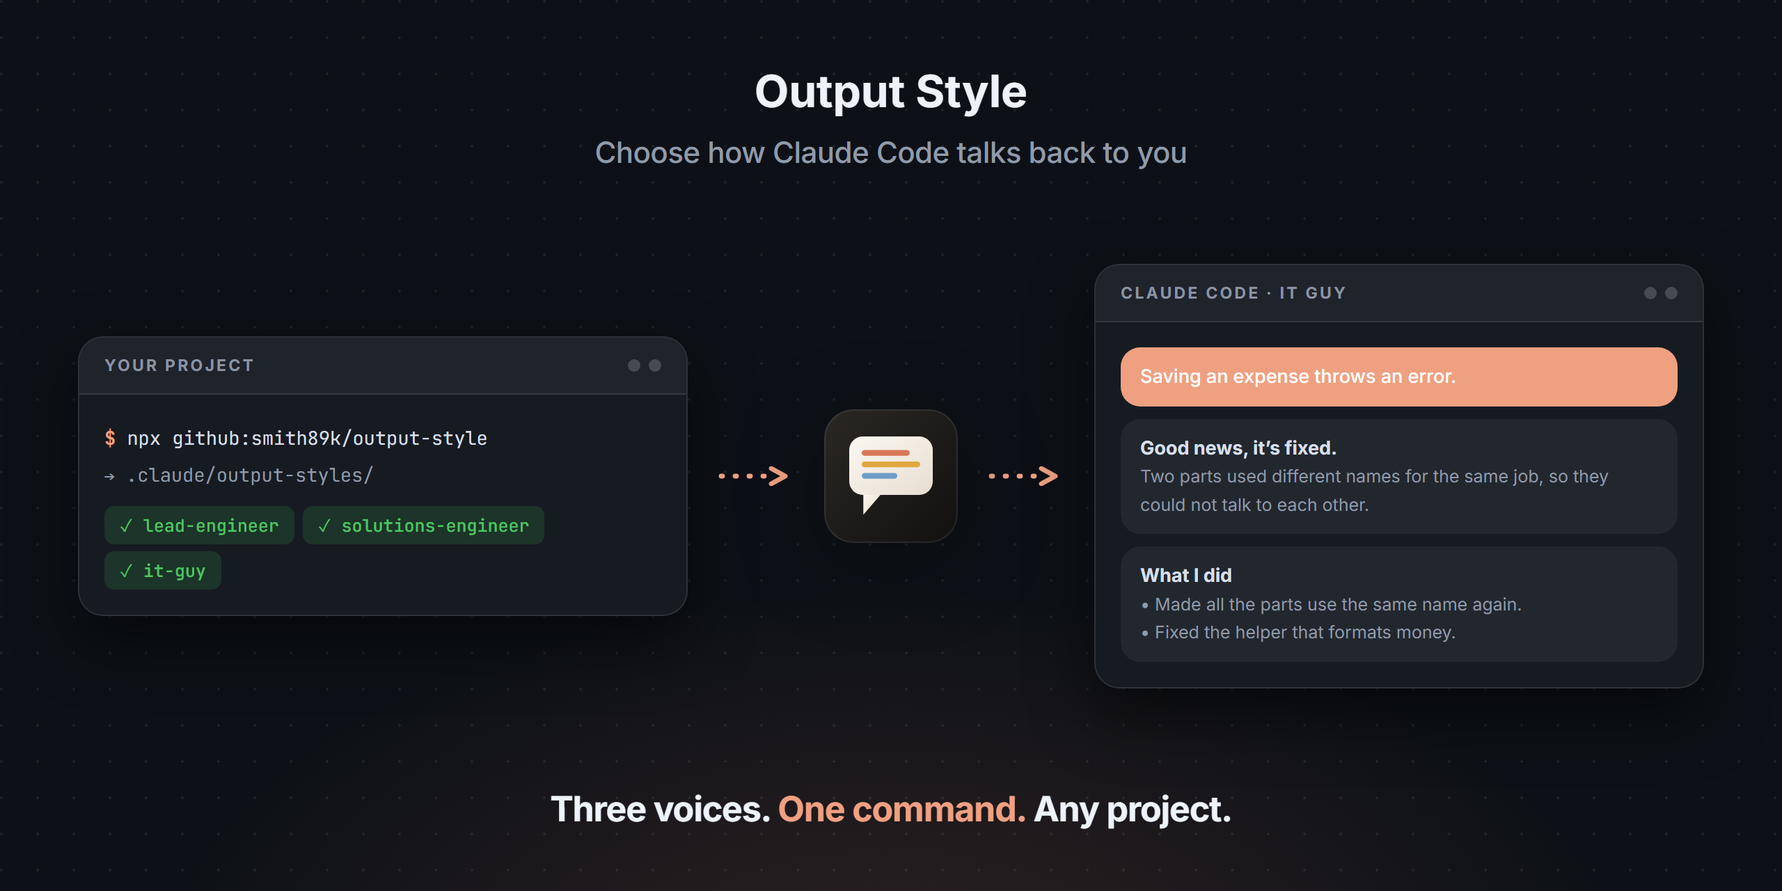
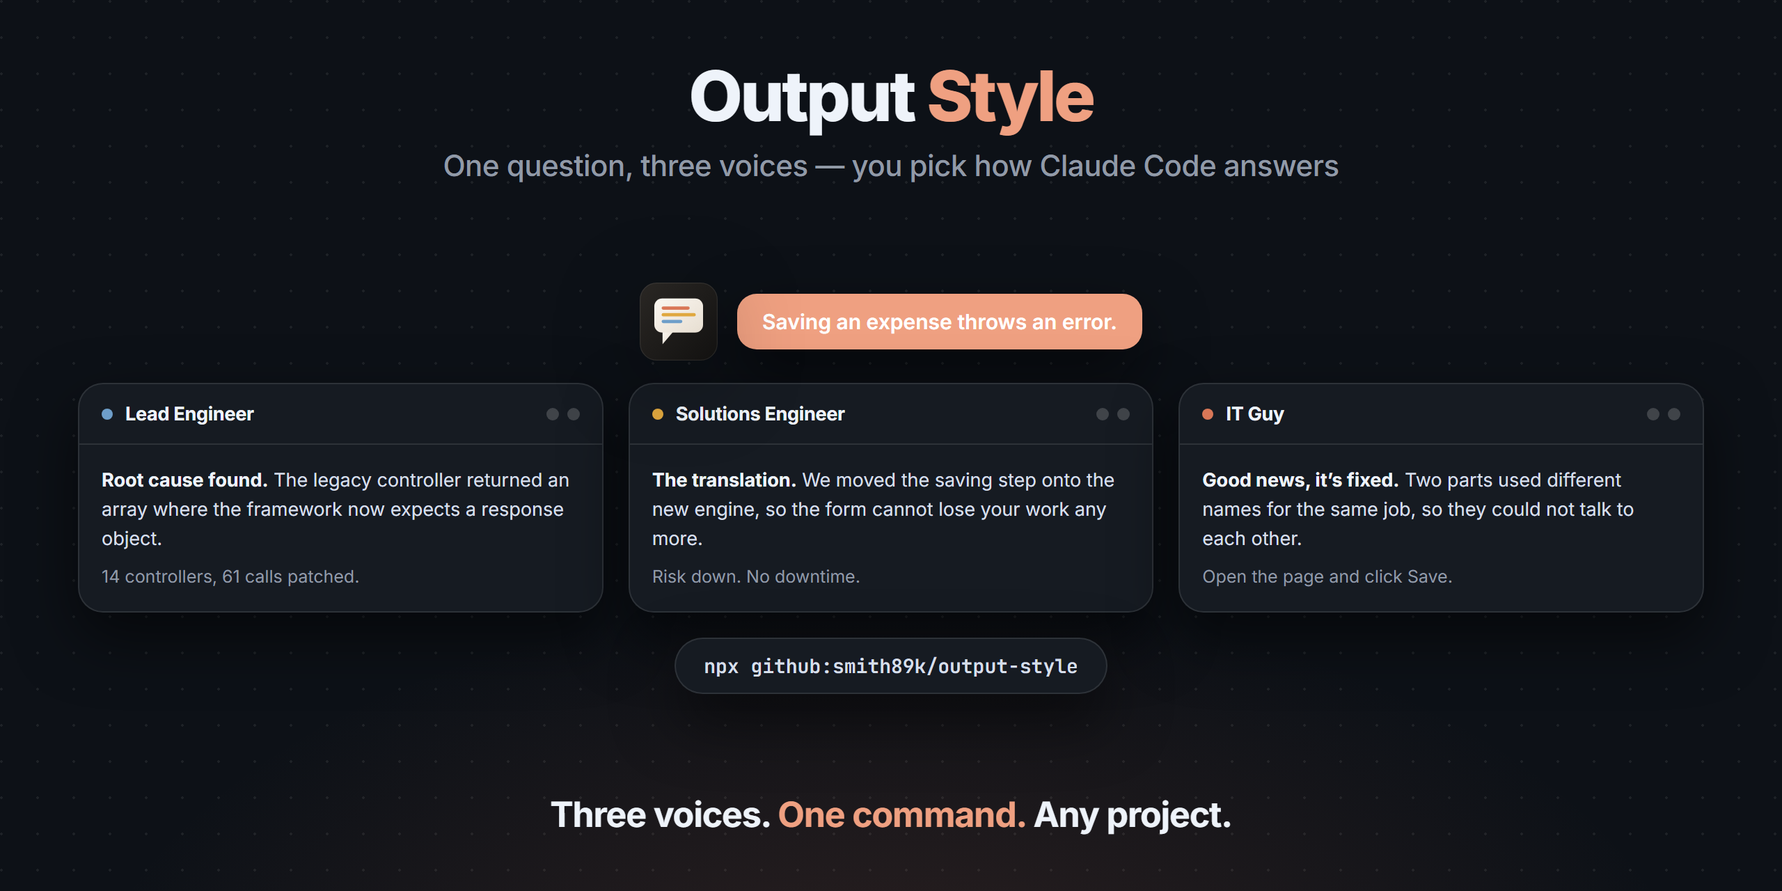
Add brand assets and a new README header
Adds art/ with a logo (SVG), a favicon, a light and dark README banner
drawn for what this project does (with the HTML source next to it) and a
1280x640 social preview. The README now opens with a centred logo,
title, one-line pitch and badges, followed by a theme-aware <picture>.

Claude-Session: https://claude.ai/code/session_01N9WhB6hMATjfZZY1zVEDWa

diff --git a/art/banner-dark.html b/art/banner-dark.html
@@ -1,84 +1,65 @@
 <!doctype html><html><head><meta charset="utf-8">
 <link rel="preconnect" href="https://fonts.googleapis.com">
 <link rel="preconnect" href="https://fonts.gstatic.com" crossorigin>
-<link href="https://fonts.googleapis.com/css2?family=Inter:wght@400;500;600;700;800&family=JetBrains+Mono:wght@400;500;600&display=swap" rel="stylesheet">
+<link href="https://fonts.googleapis.com/css2?family=Inter:wght@400;500;600;700;800;900&family=JetBrains+Mono:wght@400;500;600;700&display=swap" rel="stylesheet">
 <style>
 *{margin:0;padding:0;box-sizing:border-box}
 html,body{width:1280px;height:640px;overflow:hidden}
-body{
-  font-family:'Inter','Segoe UI',system-ui,sans-serif;
+body{font-family:'Inter','Segoe UI',system-ui,sans-serif;color:#EEF3FA;
   background:
-    radial-gradient(760px 420px at 50% 112%,rgba(217,119,87,.16),transparent 70%),
+    radial-gradient(820px 460px at 50% 118%,rgba(217,119,87,.16),transparent 72%),
     radial-gradient(circle at 1px 1px,rgba(255,255,255,.07) 1px,transparent 0) 0 0/26px 26px,
-    #0D1117;
-  color:#EEF3FA;
-  display:flex;flex-direction:column;align-items:center;
-  padding:46px 56px 44px;
-}}
+    #0D1117;}
+.page{width:100%;height:100%;padding:44px 56px 40px;display:flex;flex-direction:column}
+
 h1{font-size:50px;font-weight:800;letter-spacing:-.035em;line-height:1}
+h1 .a{color:#EFA081}
 .sub{margin-top:12px;font-size:21px;font-weight:450;color:#919AA7;letter-spacing:-.012em}
-.stage{flex:1;display:flex;align-items:center;justify-content:center;gap:22px;width:100%;margin:4px 0 2px}
-
-.card{flex:1;min-width:0;background:#161B22;border:1px solid rgba(255,255,255,.10);border-radius:18px;
-  box-shadow:0 18px 44px rgba(0,0,0,.55);overflow:hidden}
-.bar{display:flex;align-items:center;gap:10px;padding:13px 18px;background:rgba(255,255,255,.04);
-  border-bottom:1px solid rgba(255,255,255,.10)}
-.bar .t{font-size:11.5px;font-weight:700;letter-spacing:.14em;color:#8B94A3;text-transform:uppercase}
-.dots{display:flex;gap:6px;margin-left:auto}
-.dots i{width:9px;height:9px;border-radius:50%;background:rgba(255,255,255,.18);display:block}
-.url{flex:1;background:rgba(255,255,255,.05);border:1px solid rgba(255,255,255,.10);border-radius:999px;
-  padding:6px 14px;font-size:12.5px;color:#8B94A3;font-weight:500}
-.body{padding:18px}
-
-.mono{font-family:'JetBrains Mono',Consolas,monospace;font-size:13.5px;line-height:1.95;
-  color:#D7DFEA;white-space:nowrap}
-.mono .pr{color:#EFA081;font-weight:600}
-.mono .dim{color:#919AA7}
-
-.ok{display:inline-flex;align-items:center;gap:7px;background:rgba(63,185,80,.16);color:#4FC463;
-  font-family:'JetBrains Mono',Consolas,monospace;font-size:12.5px;font-weight:500;
-  padding:5px 11px;border-radius:7px;margin:5px 6px 0 0}
-
-.row{display:flex;align-items:center;gap:10px;padding:9px 2px;font-size:14px;font-weight:500}
-.row + .row{border-top:1px solid rgba(255,255,255,.10)}
-.row .n{font-family:'JetBrains Mono',Consolas,monospace;font-size:13px;color:#D7DFEA}
-.row .s{margin-left:auto;display:inline-flex;align-items:center;gap:6px;font-size:11.5px;
-  font-weight:600;letter-spacing:.04em;text-transform:uppercase;color:#4FC463;
-  background:rgba(63,185,80,.16);padding:4px 10px;border-radius:999px}
-.led{width:7px;height:7px;border-radius:50%;background:#4FC463}
-
-.head{display:flex;align-items:center;gap:10px;margin-bottom:6px}
-.head b{font-size:16px;font-weight:700;letter-spacing:-.01em}
-.head .s{margin-left:auto;display:inline-flex;align-items:center;gap:6px;font-size:11.5px;
-  font-weight:600;letter-spacing:.04em;text-transform:uppercase;color:#4FC463;
-  background:rgba(63,185,80,.16);padding:4px 10px;border-radius:999px}
-.foot{display:flex;gap:7px;margin-top:12px}
-.tagp{font-size:11.5px;font-weight:600;color:#8B94A3;background:rgba(255,255,255,.04);
-  border:1px solid rgba(255,255,255,.10);padding:4px 10px;border-radius:999px}
-
-.bub{background:rgba(255,255,255,.055);border-radius:14px;padding:11px 14px;font-size:13.5px;line-height:1.5;
-  color:#D7DFEA}
-.bub.me{background:#EFA081;color:#fff;font-weight:500}
-.bub + .bub{margin-top:9px}
-.bub b{font-weight:700}
-.bub .li{color:#919AA7;font-size:12.5px}
-
-.mid{display:flex;flex-direction:column;align-items:center;gap:0;flex:0 0 auto}
-.mid img{width:96px;height:96px;display:block;filter:drop-shadow(0 14px 30px rgba(0,0,0,.28))}
-.arrow{flex:0 0 auto;display:flex;align-items:center}
-.arrow svg{display:block}
-
-.tag{margin-top:6px;font-size:25px;font-weight:700;letter-spacing:-.022em}
+.tag{font-size:25px;font-weight:700;letter-spacing:-.022em}
 .tag .a{color:#EFA081}
-</style></head><body>
-<h1>Output Style</h1>
-<div class="sub">Choose how Claude Code talks back to you</div>
-<div class="stage">
-  <div class="card"><div class="bar"><span class="t">Your project</span><span class="dots"><i></i><i></i></span></div><div class="body"><div class="mono"><span class="pr">$</span> npx github:smith89k/output-style</div><div class="mono"><span class="dim">&#8594; .claude/output-styles/</span></div><div style="margin-top:4px"><span class="ok">&#10003; lead-engineer</span><span class="ok">&#10003; solutions-engineer</span><span class="ok">&#10003; it-guy</span></div></div></div>
-  <div class="arrow"><svg width="54" height="14" viewBox="0 0 54 14"><path d="M2 7 H40" stroke="#EFA081" stroke-width="3.4" stroke-linecap="round" stroke-dasharray="1 9"/><path d="M38 1.5 L48 7 L38 12.5" fill="none" stroke="#EFA081" stroke-width="3.4" stroke-linecap="round" stroke-linejoin="round"/></svg></div>
-  <div class="mid"><img src="logo.svg"></div>
-  <div class="arrow"><svg width="54" height="14" viewBox="0 0 54 14"><path d="M2 7 H40" stroke="#EFA081" stroke-width="3.4" stroke-linecap="round" stroke-dasharray="1 9"/><path d="M38 1.5 L48 7 L38 12.5" fill="none" stroke="#EFA081" stroke-width="3.4" stroke-linecap="round" stroke-linejoin="round"/></svg></div>
-  <div class="card"><div class="bar"><span class="t">Claude Code &middot; IT Guy</span><span class="dots"><i></i><i></i></span></div><div class="body"><div class="bub me">Saving an expense throws an error.</div><div class="bub "><b>Good news, it&rsquo;s fixed.</b><br><span class="li">Two parts used different names for the same job, so they could not talk to each other.</span></div><div class="bub "><b>What I did</b><br><span class="li">&bull; Made all the parts use the same name again.<br>&bull; Fixed the helper that formats money.</span></div></div></div>
-</div>
-<div class="tag">Three voices. <span class="a">One command.</span> Any project.</div>
-</body></html>
+.mid{flex:1;display:flex;align-items:center;justify-content:center;gap:24px;min-height:0}
+
+.win{background:#161B22;border:1px solid rgba(255,255,255,.10);border-radius:18px;
+  box-shadow:0 18px 44px rgba(0,0,0,.55);overflow:hidden;display:flex;flex-direction:column}
+.bar{display:flex;align-items:center;gap:10px;padding:12px 18px;background:rgba(255,255,255,.04);
+  border-bottom:1px solid rgba(255,255,255,.10);flex:0 0 auto}
+.bar .t{font-size:11.5px;font-weight:700;letter-spacing:.14em;color:#8B94A3;text-transform:uppercase}
+.dots{display:flex;gap:6px}
+.dots i{width:9px;height:9px;border-radius:50%;background:rgba(255,255,255,.18);display:block}
+.pill{background:rgba(255,255,255,.05);border:1px solid rgba(255,255,255,.10);border-radius:999px;padding:6px 14px;
+  font-size:12.5px;color:#8B94A3;font-weight:500}
+.pad{padding:18px;flex:1;display:flex;flex-direction:column;justify-content:center;min-height:0}
+
+.mono{font-family:'JetBrains Mono',Consolas,monospace;color:#D7DFEA}
+.chip{display:inline-flex;align-items:center;gap:7px;font-size:11.5px;font-weight:600;
+  color:#8B94A3;background:rgba(255,255,255,.04);border:1px solid rgba(255,255,255,.10);padding:5px 11px;
+  border-radius:999px;white-space:nowrap}
+.chip.on{color:#fff;background:#EFA081;border-color:transparent}
+.ok{display:inline-flex;align-items:center;gap:7px;background:rgba(63,185,80,.16);color:#4FC463;
+  font-size:12.5px;font-weight:600;padding:5px 11px;border-radius:8px}
+.warn{background:rgba(240,160,60,.16);color:#F0A83C}
+.dot{width:8px;height:8px;border-radius:50%;display:inline-block;background:currentColor}
+.muted{color:#919AA7}
+.accent{color:#EFA081}
+.row{display:flex;align-items:center;gap:11px}
+.grow{flex:1}
+.logo{filter:drop-shadow(0 14px 30px rgba(0,0,0,.30))}
+
+.voices{display:flex;gap:18px;width:100%;align-items:stretch}
+.qrow{display:flex;align-items:center;gap:14px;margin-bottom:16px}
+.qbub{font-size:15px;font-weight:600;color:#fff;background:#EFA081;
+  border-radius:14px;padding:11px 18px;box-shadow:0 18px 44px rgba(0,0,0,.55)}
+.voice{flex:1;min-width:0}
+.vh{display:flex;align-items:center;gap:9px;padding:13px 16px;border-bottom:1px solid rgba(255,255,255,.10)}
+.vh b{font-size:13.5px;font-weight:700;letter-spacing:-.01em}
+.vb{padding:15px 16px;font-size:13.5px;line-height:1.55;color:#D7DFEA;flex:1}
+.vb b{font-weight:700;color:#EEF3FA}
+.vb .q{color:#919AA7;font-size:12.5px;display:block;margin-top:7px}
+.cmdbar{display:flex;justify-content:center;margin-top:18px}
+.cmdbar span{font-family:'JetBrains Mono',Consolas,monospace;font-size:14px;font-weight:600;
+  color:#D7DFEA;background:#161B22;border:1px solid rgba(255,255,255,.10);border-radius:999px;
+  padding:10px 20px;box-shadow:0 18px 44px rgba(0,0,0,.55)}
+
+</style></head><body><div class="page">
+<div style="display:flex;flex-direction:column;text-align:center;align-items:center;flex:0 0 auto"><h1>Output <span class="a">Style</span></h1><div class="sub">One question, three voices &mdash; you pick how Claude Code answers</div></div><div class="mid" style="flex-direction:column;gap:0"><div class="qrow"><img class="logo" src="logo.svg" width="56" height="56" style="flex:0 0 auto;"><span class="qbub">Saving an expense throws an error.</span></div><div class="voices"><div class="win voice"><div class="vh"><span class="dot" style="color:#6E9EC9"></span><b>Lead Engineer</b><span class="grow"></span><span class="dots"><i></i><i></i></span></div><div class="vb"><b>Root cause found.</b> The legacy controller returned an array where the framework now expects a response object.<span class="q">14 controllers, 61 calls patched.</span></div></div><div class="win voice"><div class="vh"><span class="dot" style="color:#E0A83F"></span><b>Solutions Engineer</b><span class="grow"></span><span class="dots"><i></i><i></i></span></div><div class="vb"><b>The translation.</b> We moved the saving step onto the new engine, so the form cannot lose your work any more.<span class="q">Risk down. No downtime.</span></div></div><div class="win voice"><div class="vh"><span class="dot" style="color:#D97757"></span><b>IT Guy</b><span class="grow"></span><span class="dots"><i></i><i></i></span></div><div class="vb"><b>Good news, it&rsquo;s fixed.</b> Two parts used different names for the same job, so they could not talk to each other.<span class="q">Open the page and click Save.</span></div></div></div><div class="cmdbar"><span>npx github:smith89k/output-style</span></div></div><div class="tag" style="text-align:center;margin-top:0px;flex:0 0 auto">Three voices. <span class="a">One command.</span> Any project.</div>
+</div></body></html>

diff --git a/art/banner-light.html b/art/banner-light.html
@@ -1,84 +1,65 @@
 <!doctype html><html><head><meta charset="utf-8">
 <link rel="preconnect" href="https://fonts.googleapis.com">
 <link rel="preconnect" href="https://fonts.gstatic.com" crossorigin>
-<link href="https://fonts.googleapis.com/css2?family=Inter:wght@400;500;600;700;800&family=JetBrains+Mono:wght@400;500;600&display=swap" rel="stylesheet">
+<link href="https://fonts.googleapis.com/css2?family=Inter:wght@400;500;600;700;800;900&family=JetBrains+Mono:wght@400;500;600;700&display=swap" rel="stylesheet">
 <style>
 *{margin:0;padding:0;box-sizing:border-box}
 html,body{width:1280px;height:640px;overflow:hidden}
-body{
-  font-family:'Inter','Segoe UI',system-ui,sans-serif;
+body{font-family:'Inter','Segoe UI',system-ui,sans-serif;color:#14171C;
   background:
-    radial-gradient(760px 420px at 50% 112%,rgba(200,95,56,.10),transparent 70%),
+    radial-gradient(820px 460px at 50% 118%,rgba(200,95,56,.10),transparent 72%),
     radial-gradient(circle at 1px 1px,rgba(0,0,0,.07) 1px,transparent 0) 0 0/26px 26px,
-    #EFEEE9;
-  color:#14171C;
-  display:flex;flex-direction:column;align-items:center;
-  padding:46px 56px 44px;
-}}
+    #EFEEE9;}
+.page{width:100%;height:100%;padding:44px 56px 40px;display:flex;flex-direction:column}
+
 h1{font-size:50px;font-weight:800;letter-spacing:-.035em;line-height:1}
+h1 .a{color:#C85F38}
 .sub{margin-top:12px;font-size:21px;font-weight:450;color:#5C636E;letter-spacing:-.012em}
-.stage{flex:1;display:flex;align-items:center;justify-content:center;gap:22px;width:100%;margin:4px 0 2px}
-
-.card{flex:1;min-width:0;background:#FBFAF8;border:1px solid rgba(0,0,0,.09);border-radius:18px;
-  box-shadow:0 18px 44px rgba(20,24,33,.10);overflow:hidden}
-.bar{display:flex;align-items:center;gap:10px;padding:13px 18px;background:rgba(0,0,0,.035);
-  border-bottom:1px solid rgba(0,0,0,.09)}
-.bar .t{font-size:11.5px;font-weight:700;letter-spacing:.14em;color:#6B7280;text-transform:uppercase}
-.dots{display:flex;gap:6px;margin-left:auto}
-.dots i{width:9px;height:9px;border-radius:50%;background:rgba(0,0,0,.14);display:block}
-.url{flex:1;background:#FFFFFF;border:1px solid rgba(0,0,0,.09);border-radius:999px;
-  padding:6px 14px;font-size:12.5px;color:#6B7280;font-weight:500}
-.body{padding:18px}
-
-.mono{font-family:'JetBrains Mono',Consolas,monospace;font-size:13.5px;line-height:1.95;
-  color:#2B303A;white-space:nowrap}
-.mono .pr{color:#C85F38;font-weight:600}
-.mono .dim{color:#5C636E}
-
-.ok{display:inline-flex;align-items:center;gap:7px;background:#E4F2E8;color:#1E7A3F;
-  font-family:'JetBrains Mono',Consolas,monospace;font-size:12.5px;font-weight:500;
-  padding:5px 11px;border-radius:7px;margin:5px 6px 0 0}
-
-.row{display:flex;align-items:center;gap:10px;padding:9px 2px;font-size:14px;font-weight:500}
-.row + .row{border-top:1px solid rgba(0,0,0,.09)}
-.row .n{font-family:'JetBrains Mono',Consolas,monospace;font-size:13px;color:#2B303A}
-.row .s{margin-left:auto;display:inline-flex;align-items:center;gap:6px;font-size:11.5px;
-  font-weight:600;letter-spacing:.04em;text-transform:uppercase;color:#1E7A3F;
-  background:#E4F2E8;padding:4px 10px;border-radius:999px}
-.led{width:7px;height:7px;border-radius:50%;background:#1E7A3F}
-
-.head{display:flex;align-items:center;gap:10px;margin-bottom:6px}
-.head b{font-size:16px;font-weight:700;letter-spacing:-.01em}
-.head .s{margin-left:auto;display:inline-flex;align-items:center;gap:6px;font-size:11.5px;
-  font-weight:600;letter-spacing:.04em;text-transform:uppercase;color:#1E7A3F;
-  background:#E4F2E8;padding:4px 10px;border-radius:999px}
-.foot{display:flex;gap:7px;margin-top:12px}
-.tagp{font-size:11.5px;font-weight:600;color:#6B7280;background:rgba(0,0,0,.035);
-  border:1px solid rgba(0,0,0,.09);padding:4px 10px;border-radius:999px}
-
-.bub{background:#F1EFEB;border-radius:14px;padding:11px 14px;font-size:13.5px;line-height:1.5;
-  color:#2B303A}
-.bub.me{background:#C85F38;color:#fff;font-weight:500}
-.bub + .bub{margin-top:9px}
-.bub b{font-weight:700}
-.bub .li{color:#5C636E;font-size:12.5px}
-
-.mid{display:flex;flex-direction:column;align-items:center;gap:0;flex:0 0 auto}
-.mid img{width:96px;height:96px;display:block;filter:drop-shadow(0 14px 30px rgba(0,0,0,.28))}
-.arrow{flex:0 0 auto;display:flex;align-items:center}
-.arrow svg{display:block}
-
-.tag{margin-top:6px;font-size:25px;font-weight:700;letter-spacing:-.022em}
+.tag{font-size:25px;font-weight:700;letter-spacing:-.022em}
 .tag .a{color:#C85F38}
-</style></head><body>
-<h1>Output Style</h1>
-<div class="sub">Choose how Claude Code talks back to you</div>
-<div class="stage">
-  <div class="card"><div class="bar"><span class="t">Your project</span><span class="dots"><i></i><i></i></span></div><div class="body"><div class="mono"><span class="pr">$</span> npx github:smith89k/output-style</div><div class="mono"><span class="dim">&#8594; .claude/output-styles/</span></div><div style="margin-top:4px"><span class="ok">&#10003; lead-engineer</span><span class="ok">&#10003; solutions-engineer</span><span class="ok">&#10003; it-guy</span></div></div></div>
-  <div class="arrow"><svg width="54" height="14" viewBox="0 0 54 14"><path d="M2 7 H40" stroke="#C85F38" stroke-width="3.4" stroke-linecap="round" stroke-dasharray="1 9"/><path d="M38 1.5 L48 7 L38 12.5" fill="none" stroke="#C85F38" stroke-width="3.4" stroke-linecap="round" stroke-linejoin="round"/></svg></div>
-  <div class="mid"><img src="logo.svg"></div>
-  <div class="arrow"><svg width="54" height="14" viewBox="0 0 54 14"><path d="M2 7 H40" stroke="#C85F38" stroke-width="3.4" stroke-linecap="round" stroke-dasharray="1 9"/><path d="M38 1.5 L48 7 L38 12.5" fill="none" stroke="#C85F38" stroke-width="3.4" stroke-linecap="round" stroke-linejoin="round"/></svg></div>
-  <div class="card"><div class="bar"><span class="t">Claude Code &middot; IT Guy</span><span class="dots"><i></i><i></i></span></div><div class="body"><div class="bub me">Saving an expense throws an error.</div><div class="bub "><b>Good news, it&rsquo;s fixed.</b><br><span class="li">Two parts used different names for the same job, so they could not talk to each other.</span></div><div class="bub "><b>What I did</b><br><span class="li">&bull; Made all the parts use the same name again.<br>&bull; Fixed the helper that formats money.</span></div></div></div>
-</div>
-<div class="tag">Three voices. <span class="a">One command.</span> Any project.</div>
-</body></html>
+.mid{flex:1;display:flex;align-items:center;justify-content:center;gap:24px;min-height:0}
+
+.win{background:#FBFAF8;border:1px solid rgba(0,0,0,.09);border-radius:18px;
+  box-shadow:0 18px 44px rgba(20,24,33,.10);overflow:hidden;display:flex;flex-direction:column}
+.bar{display:flex;align-items:center;gap:10px;padding:12px 18px;background:rgba(0,0,0,.035);
+  border-bottom:1px solid rgba(0,0,0,.09);flex:0 0 auto}
+.bar .t{font-size:11.5px;font-weight:700;letter-spacing:.14em;color:#6B7280;text-transform:uppercase}
+.dots{display:flex;gap:6px}
+.dots i{width:9px;height:9px;border-radius:50%;background:rgba(0,0,0,.14);display:block}
+.pill{background:#FFFFFF;border:1px solid rgba(0,0,0,.09);border-radius:999px;padding:6px 14px;
+  font-size:12.5px;color:#6B7280;font-weight:500}
+.pad{padding:18px;flex:1;display:flex;flex-direction:column;justify-content:center;min-height:0}
+
+.mono{font-family:'JetBrains Mono',Consolas,monospace;color:#2B303A}
+.chip{display:inline-flex;align-items:center;gap:7px;font-size:11.5px;font-weight:600;
+  color:#6B7280;background:rgba(0,0,0,.035);border:1px solid rgba(0,0,0,.09);padding:5px 11px;
+  border-radius:999px;white-space:nowrap}
+.chip.on{color:#fff;background:#C85F38;border-color:transparent}
+.ok{display:inline-flex;align-items:center;gap:7px;background:#E4F2E8;color:#1E7A3F;
+  font-size:12.5px;font-weight:600;padding:5px 11px;border-radius:8px}
+.warn{background:#FBE7D4;color:#AF560E}
+.dot{width:8px;height:8px;border-radius:50%;display:inline-block;background:currentColor}
+.muted{color:#5C636E}
+.accent{color:#C85F38}
+.row{display:flex;align-items:center;gap:11px}
+.grow{flex:1}
+.logo{filter:drop-shadow(0 14px 30px rgba(0,0,0,.30))}
+
+.voices{display:flex;gap:18px;width:100%;align-items:stretch}
+.qrow{display:flex;align-items:center;gap:14px;margin-bottom:16px}
+.qbub{font-size:15px;font-weight:600;color:#fff;background:#C85F38;
+  border-radius:14px;padding:11px 18px;box-shadow:0 18px 44px rgba(20,24,33,.10)}
+.voice{flex:1;min-width:0}
+.vh{display:flex;align-items:center;gap:9px;padding:13px 16px;border-bottom:1px solid rgba(0,0,0,.09)}
+.vh b{font-size:13.5px;font-weight:700;letter-spacing:-.01em}
+.vb{padding:15px 16px;font-size:13.5px;line-height:1.55;color:#2B303A;flex:1}
+.vb b{font-weight:700;color:#14171C}
+.vb .q{color:#5C636E;font-size:12.5px;display:block;margin-top:7px}
+.cmdbar{display:flex;justify-content:center;margin-top:18px}
+.cmdbar span{font-family:'JetBrains Mono',Consolas,monospace;font-size:14px;font-weight:600;
+  color:#2B303A;background:#FBFAF8;border:1px solid rgba(0,0,0,.09);border-radius:999px;
+  padding:10px 20px;box-shadow:0 18px 44px rgba(20,24,33,.10)}
+
+</style></head><body><div class="page">
+<div style="display:flex;flex-direction:column;text-align:center;align-items:center;flex:0 0 auto"><h1>Output <span class="a">Style</span></h1><div class="sub">One question, three voices &mdash; you pick how Claude Code answers</div></div><div class="mid" style="flex-direction:column;gap:0"><div class="qrow"><img class="logo" src="logo.svg" width="56" height="56" style="flex:0 0 auto;"><span class="qbub">Saving an expense throws an error.</span></div><div class="voices"><div class="win voice"><div class="vh"><span class="dot" style="color:#6E9EC9"></span><b>Lead Engineer</b><span class="grow"></span><span class="dots"><i></i><i></i></span></div><div class="vb"><b>Root cause found.</b> The legacy controller returned an array where the framework now expects a response object.<span class="q">14 controllers, 61 calls patched.</span></div></div><div class="win voice"><div class="vh"><span class="dot" style="color:#E0A83F"></span><b>Solutions Engineer</b><span class="grow"></span><span class="dots"><i></i><i></i></span></div><div class="vb"><b>The translation.</b> We moved the saving step onto the new engine, so the form cannot lose your work any more.<span class="q">Risk down. No downtime.</span></div></div><div class="win voice"><div class="vh"><span class="dot" style="color:#D97757"></span><b>IT Guy</b><span class="grow"></span><span class="dots"><i></i><i></i></span></div><div class="vb"><b>Good news, it&rsquo;s fixed.</b> Two parts used different names for the same job, so they could not talk to each other.<span class="q">Open the page and click Save.</span></div></div></div><div class="cmdbar"><span>npx github:smith89k/output-style</span></div></div><div class="tag" style="text-align:center;margin-top:0px;flex:0 0 auto">Three voices. <span class="a">One command.</span> Any project.</div>
+</div></body></html>

diff --git a/README.md b/README.md
@@ -6,16 +6,16 @@
 
 **Three ready-made voices for Claude Code: a lead engineer, a solutions engineer, and the friendly IT guy.**
 
-<a href="https://docs.anthropic.com/en/docs/claude-code/output-styles"><img src="https://img.shields.io/badge/Claude%20Code-output%20styles-D97757" alt="Claude Code output styles"></a>
-<a href="https://github.com/smith89k/output-style#readme"><img src="https://img.shields.io/badge/install-npx-D97757" alt="Install with npx"></a>
-<a href="https://github.com/smith89k/output-style#readme"><img src="https://img.shields.io/badge/styles-3-8A8A8A" alt="Three styles"></a>
-<a href="https://github.com/smith89k/output-style/blob/main/package.json"><img src="https://img.shields.io/badge/license-MIT-blue" alt="License"></a>
+<img src="https://img.shields.io/badge/Claude%20Code-output%20styles-D97757" alt="Claude Code output styles">
+<img src="https://img.shields.io/badge/install-npx-D97757" alt="Install with npx">
+<img src="https://img.shields.io/badge/styles-3-8A8A8A" alt="Three styles">
+<img src="https://img.shields.io/badge/licence-MIT-blue" alt="MIT licence">
 
 </div>
 
 <picture>
   <source media="(prefers-color-scheme: dark)" srcset="art/banner-dark.png">
-  <img src="art/banner-light.png" alt="Output Style: one npx command copies three output styles into .claude/output-styles, and Claude Code answers in the IT Guy voice." width="100%">
+  <img src="art/banner-light.png" alt="Output Style: the same answer written three ways, one per output style, installed with a single npx command." width="100%">
 </picture>
 
 Custom output styles for [Claude Code](https://docs.anthropic.com/en/docs/agents-and-tools/claude-code) with automatic installation support for local projects and global configurations.
